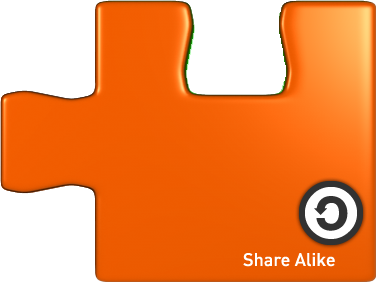
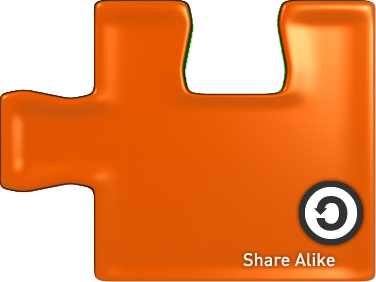
arrrr! new, squishy, buttons.

Changed region(s): [[0.0, 0.0, 1.0, 1.0], [0.2633, 0.6241, 0.2926, 0.6525]]

diff --git a/freedomslicense/flg-five.css b/freedomslicense/flg-five.css
@@ -88,8 +88,8 @@ h4.conditions {
 
 #flg-connect-sa {
 	clear: both;
-	margin-top: -95px;
-	margin-right: 10px;
+	margin-top: -94px;
+	margin-right: 9px;
 	float: right;
 }
 
